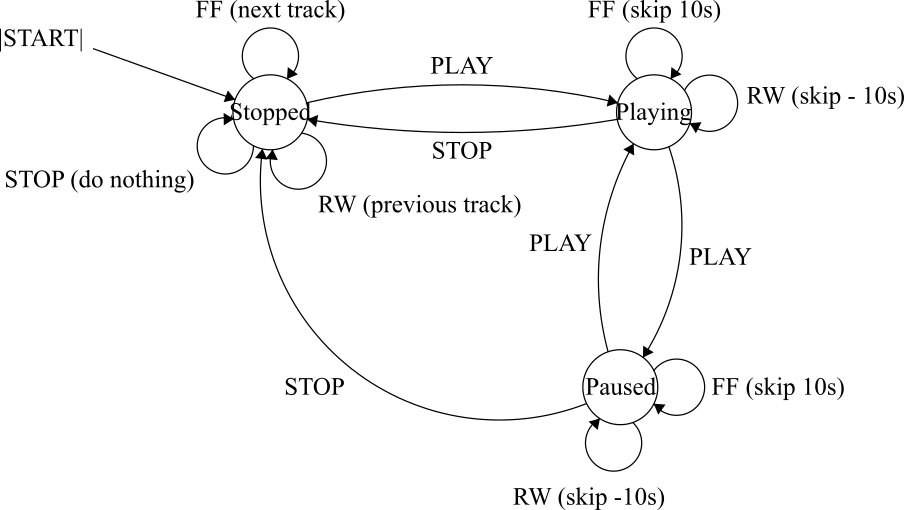
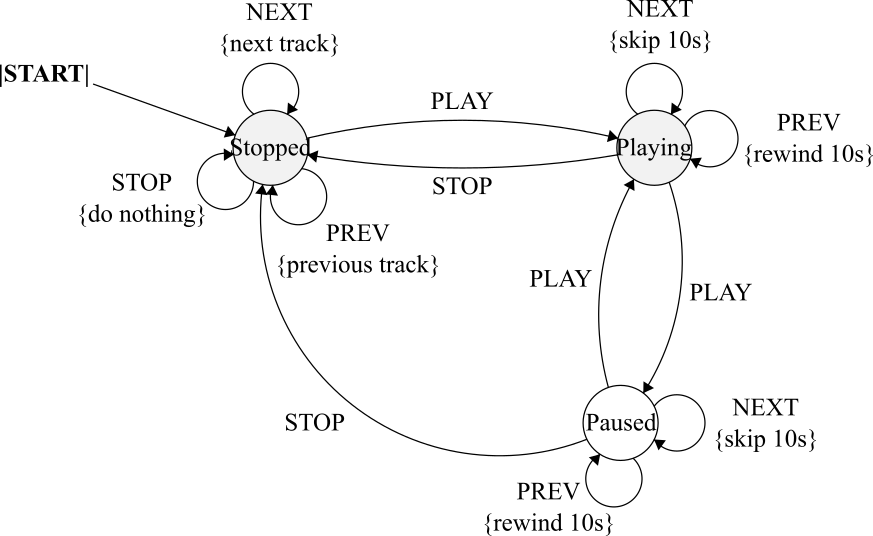
Finished README.md and SOLUTION.md

diff --git a/README.md b/README.md
@@ -30,10 +30,32 @@ Run the program and check that, indeed, it behaves accordingly to the diagram ab
 
 ## Exercises
 
-1. 
+1. Create a new *concrete state* in the class `PausedState` and change the existing ones to achieve the following FSM:
 
-![](images/fsm_2.png)
+    ![](images/fsm_2.png)
 
-2. 
+    :bulb: There is no need to make changes to the `CLI` class.
+    
+2. Add `turnOn()` and `turnOff()` methods to `MusicPlayer`. The behavior of these
+methods should be delegated to the current *state*. Note that this requires changing
+the `MusicPlayerState` *interface*. Create a new `OffState` and make the necessary
+changes to implement the following FSM:
 
-![](images/fsm_3.png)
+    ![](images/fsm_3.png)
+    
+    - :warning: Please note:
+    
+        - The previous *transition rules* between existing states stay the same; they are ommited from the above diagram;
+        
+        - The initial state is the `Off`;
+        
+        - You can only transition from the `Off` with the `TURNON` command; all others are silently ignored.
+        
+        - All other states silently ignore the `TURNON` command.
+        
+        - When transitioning from `Off` state to `Stopped` state the player must always load the first song of the *playlist*;
+        
+        - Whenever a transition is made to `Stopped` state the *playback* must stop and resources freed. 
+        
+    
+Solutions are provided [here](SOLUTION.md).

diff --git a/SOLUTION.md b/SOLUTION.md
@@ -123,5 +123,7 @@ besides implementing `PausedState`. The class `MusicPlayer` remains unchanged.
     }
     ```
    
-2. TODO. Fork project and provide a "pull request" with the solution in this file.
+2. TODO, accepting contribution.
+ 
+    :bulb: Fork project and provide a "pull request" with the solution in this file.
 
